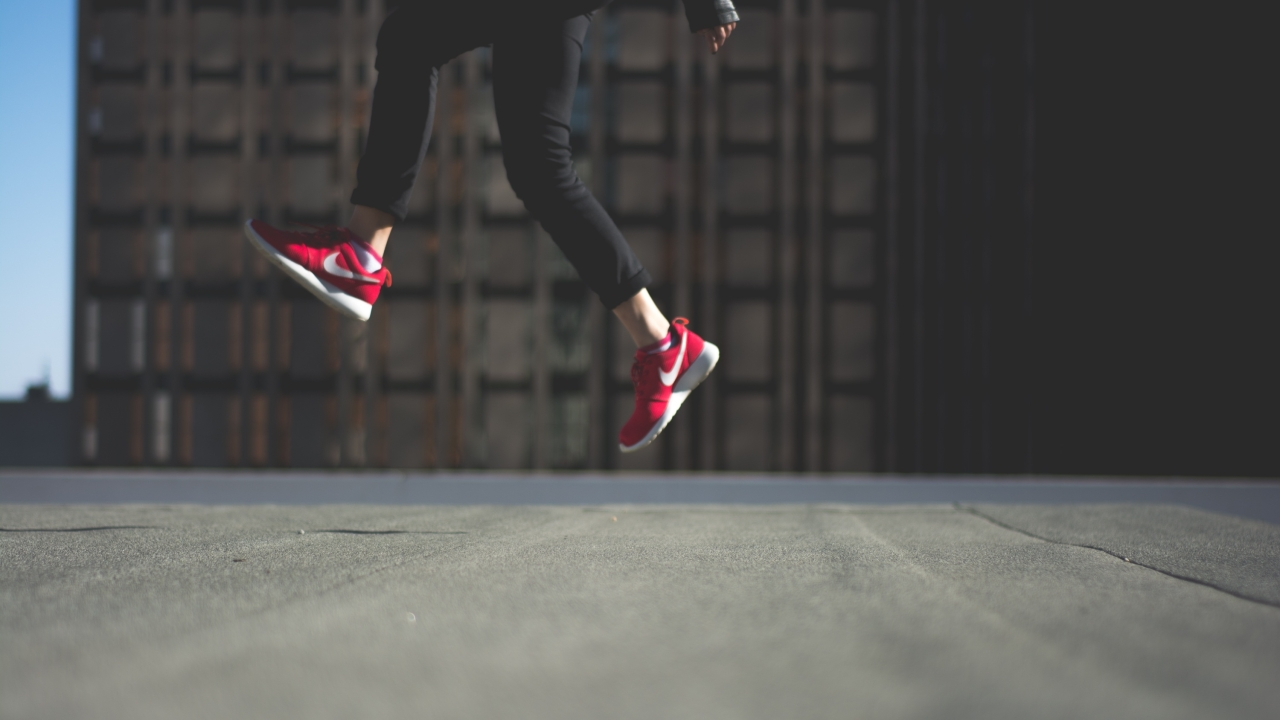
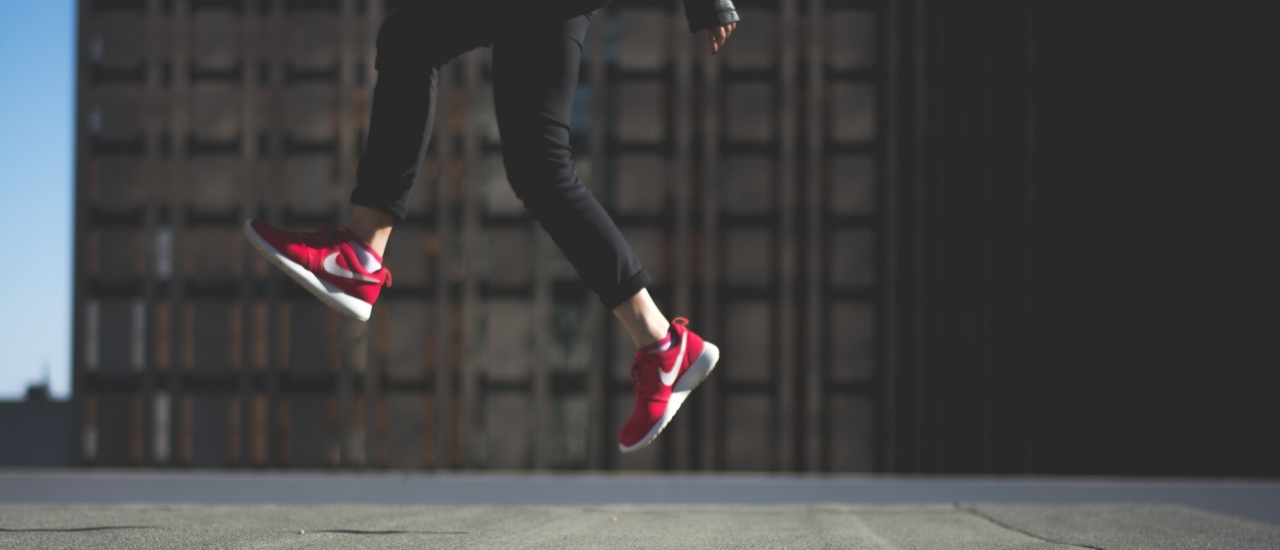
carouselfinish

diff --git a/index.html b/index.html
@@ -2,161 +2,177 @@
 <html lang="en">
 
 <head>
-    <meta charset="UTF-8">
-    <meta http-equiv="X-UA-Compatible" content="IE=edge">
-    <meta name="viewport" content="width=device-width, initial-scale=1.0">
-    <title>Be Greater | SNEAKERS SALE!</title>
-    <link rel="stylesheet" href="./assets/css/style.css">
-    <link rel="stylesheet" href="https://cdnjs.cloudflare.com/ajax/libs/font-awesome/6.2.1/css/all.min.css">
-    <link href="https://cdn.jsdelivr.net/npm/bootstrap@5.2.3/dist/css/bootstrap.min.css" rel="stylesheet"
-        integrity="sha384-rbsA2VBKQhggwzxH7pPCaAqO46MgnOM80zW1RWuH61DGLwZJEdK2Kadq2F9CUG65" crossorigin="anonymous">
+  <meta charset="UTF-8">
+  <meta http-equiv="X-UA-Compatible" content="IE=edge">
+  <meta name="viewport" content="width=device-width, initial-scale=1.0">
+  <title>Be Greater | SNEAKERS SALE!</title>
+  <link rel="stylesheet" href="./assets/css/style.css">
+  <link rel="stylesheet" href="https://cdnjs.cloudflare.com/ajax/libs/font-awesome/6.2.1/css/all.min.css">
+  <link href="https://cdn.jsdelivr.net/npm/bootstrap@5.2.3/dist/css/bootstrap.min.css" rel="stylesheet"
+    integrity="sha384-rbsA2VBKQhggwzxH7pPCaAqO46MgnOM80zW1RWuH61DGLwZJEdK2Kadq2F9CUG65" crossorigin="anonymous">
 
 
 </head>
 
 <body class="bodyIndex">
-    <nav class="navbar navbar-expand-lg navbar-dark " style="background: #4551b5;">
-        <div class="container-fluid">
-          <a class="navbar-brand" href="#"></a>
-          <img src="./assets/img/BeGreater.png" alt="logo" width="autopx" height="100">
-          <button class="navbar-toggler" type="button" data-bs-toggle="collapse" data-bs-target="#navbarSupportedContent"
-            aria-controls="navbarSupportedContent" aria-expanded="false" aria-label="Toggle navigation">
-            <span class="navbar-toggler-icon"></span>
-          </button>
-          <div class="collapse navbar-collapse me-5 justify-content-center" id="navbarSupportedContent">
-            <ul class="navbar-nav">
-              <li class="nav-item">
-                <a class="nav-link active" aria-current="page" href="/index.html">HOME</a>
-              </li>
-              <li class="nav-item">
-                <a class="nav-link" href="./pages/merch.html">MERCH</a>
-              </li>
-              <li class="nav-item">
-                <a class="nav-link" href="./pages/aboutus.html"> ABOUT US</a>
-              </li>
-              <li class="nav-item">
-                <a class="nav-link" href="./pages/contact.html">CONTACT</a>
-              </li>
-              <li class="nav-item">
-                <a class="nav-link" href="./pages/app.html">APP</a>
-              </li>
-            </ul>
-          </div>
-        </div>
-      </nav>
-    <header >
-        <div class="separacion">
-    
-        </div>
-        <div id="carouselExample" class="carousel slide">
-            <div class="carousel-inner ">
-              <div class="carousel-item active ">
-                <img src="./assets/img/nike1.png" class="d-block w-100" alt="...">
-              </div>
-              <div class="carousel-item">
-                <img src="./assets/img/nike2.jpg" class="d-block w-100" alt="...">
-              </div>
-              <div class="carousel-item">
-                <img src="./assets/img/nike3.jpg" class="d-block w-100" alt="...">
-              </div>
-            </div>
-            <button class="carousel-control-prev" type="button" data-bs-target="#carouselExample" data-bs-slide="prev">
-              <span class="carousel-control-prev-icon" aria-hidden="true"></span>
-              <span class="visually-hidden">Previous</span>
+  <nav class="navbar navbar-expand-lg navbar-dark " style="background: #4551b5;">
+    <div class="container-fluid">
+      <a class="navbar-brand" href="#"></a>
+      <img src="./assets/img/BeGreater.png" alt="logo" width="autopx" height="100">
+      <button class="navbar-toggler" type="button" data-bs-toggle="collapse" data-bs-target="#navbarSupportedContent"
+        aria-controls="navbarSupportedContent" aria-expanded="false" aria-label="Toggle navigation">
+        <span class="navbar-toggler-icon"></span>
+      </button>
+      <div class="collapse navbar-collapse me-5 justify-content-end" id="navbarSupportedContent">
+        <ul class="navbar-nav">
+          <li class="nav-item">
+            <a class="nav-link active" aria-current="page" href="/index.html">HOME</a>
+          </li>
+          <li class="nav-item">
+            <a class="nav-link" href="./pages/merch.html">MERCH</a>
+          </li>
+          <li class="nav-item">
+            <a class="nav-link" href="./pages/aboutus.html"> ABOUT US</a>
+          </li>
+          <li class="nav-item">
+            <a class="nav-link" href="./pages/contact.html">CONTACT</a>
+          </li>
+          <li class="nav-item">
+            <a class="nav-link" href="./pages/app.html">APP</a>
+          </li>
+        </ul>
+      </div>
+    </div>
+  </nav>
+  <header>
+    <div class="separacion">
+</div>
+      <section data-aos="fade-up" class="container aos-init aos-animate">
+
+        <section id="carouselExampleCaptions" class="carousel slide " data-bs-ride="carousel">
+          <section class="carousel-indicators">
+            <button type="button" data-bs-target="#carouselExampleCaptions" data-bs-slide-to="0" class=""
+              aria-label="Slide 1">
             </button>
-            <button class="carousel-control-next" type="button" data-bs-target="#carouselExample" data-bs-slide="next">
-              <span class="carousel-control-next-icon" aria-hidden="true"></span>
-              <span class="visually-hidden">Next</span>
+            <button type="button" data-bs-target="#carouselExampleCaptions" data-bs-slide-to="1" aria-label="Slide 2"
+              class="active" aria-current="true">
             </button>
-          </div>
-    </header>
+            <button type="button" data-bs-target="#carouselExampleCaptions" data-bs-slide-to="2" aria-label="Slide 3"
+              class="">
+            </button>
+          </section>
+          <section class="carousel-inner">
+            <section class="carousel-item">
+              <img src="./assets/img/nike1.png" class="d-block w-100 " alt="img0">
+              <section class="carousel-caption d-none d-md-block">
 
-    
+              </section>
+            </section>
+            <section class="carousel-item active">
+              <img src="./assets/img/nike2.jpg" class="d-block w-100" alt="img1">
+              <section class="carousel-caption d-none d-md-block">
 
-    <main>
-        
-        <h1 class="sneakers">SNEAKERS</h1>
-        <section class="tarjetas">
+              </section>
+            </section>
+            <section class="carousel-item">
+              <img src="./assets/img/nike3.jpg" class="d-block w-100" alt="img2">
+              <section class="carousel-caption d-none d-md-block">
+              </section>
+            </section>
 
-            <div class="tarjeta">
-
-                <img src="./assets/img/Nike Air More Uptempo '96.jpg"
-                    alt="" class="zapas">
-                <div class="textos">
-                    <h3 class="titulotarjeta">Nike Air More Uptempo '96</h3>
-                    <p>
-                        The Nike Air More Uptempo '96 would give you a legendary look. From the large A-I-R design on each side, inspired by '90s graffiti; to the Air unit on the sole of the foot, which cushions with each step.
-                    </p>
-                    <button class="btnHome"> BUY NOW</button>
-                </div>
-
-
-            </div>
-
-            <div class="tarjeta">
-
-                <img src="./assets/img/Nike Dunk Hi Retro.jpg"
-                    alt="" class="zapas">
-                <div class="textos">
-                    <h3 class="titulotarjeta">Nike Dunk Hi Retro</h3>
-                    <p>
-                        The Nike Dunk Hi Retro Shoe was introduced as a basketball shoe in 1985, though its grippy flat sole was perfect for a forgotten sporting community: skateboarders.
-                    </p>
-                    <button class="btnHome"> BUY NOW</button>
-                </div>
-
-
-            </div>
-
-            <div class="tarjeta">
-
-                <img src="./assets/img/Nike Air Force 1 High 07 Lv8.jpg"
-                    alt="" class="zapas">
-                <div class="textos">
-                    <h3 class="titulotarjeta">Nike Air Force 1 High 07 Lv8</h3>
-                    <p>Like a basketball icon that moves to the streets and the city, the Nike Air Force 1 High 07 Lv8 Shoes have arrived to complete your look with a lot of style and sophistication.
-                    </p>
-                    <button class="btnHome"> BUY NOW</button>
-                </div>
-
-
+          </section>
         </section>
-    </main>
+      </section>
+
+      </section>
+  </header>
 
 
-    <footer class="pie-pagina">
-        <div class="grupo-1">
-            <div class="box">
-                <figure class="logo">
-                    <a href="./index.html">
-                        <img src="./assets/img/BeGreater.png" alt="BeGreater">
-                    </a>
-                </figure>
-            </div>
-            <div class="box">
-                <h2>About Us</h2>
-                <p>
-                    We live training to win and conquer consumers by offering a premium experience.</p>
-                <p>
-                    You need to have courage to wear our clothes, are you ready to Be Greater?</p>
-            </div>
-            <div class="box">
-                <h2>FOLLOW US</h2>
-                <div class="red-social">
-                    <a href="#" class="fa-brands fa-facebook"></a>
-                    <a href="#" class="fa-brands fa-twitter"></a>
-                    <a href="#" class="fa-brands fa-instagram"></a>
-                    <a href="#" class="fa-brands fa-youtube"></a>
-                </div>
-            </div>
+
+  <main>
+
+    <h1 class="sneakers">SNEAKERS</h1>
+    <section class="tarjetas">
+
+      <div class="tarjeta">
+
+        <img src="./assets/img/Nike Air More Uptempo '96.jpg" alt="" class="zapas">
+        <div class="textos">
+          <h3 class="titulotarjeta">Nike Air More Uptempo '96</h3>
+          <p>
+            The Nike Air More Uptempo '96 would give you a legendary look. From the large A-I-R design on each side,
+            inspired by '90s graffiti; to the Air unit on the sole of the foot, which cushions with each step.
+          </p>
+          <button class="btnHome"> BUY NOW</button>
         </div>
-        <div class="grupo-2">
-            <small>&copy; 2021 <b>BeGreater, Inc</b> - All Rights Reserved.</small>
+
+
+      </div>
+
+      <div class="tarjeta">
+
+        <img src="./assets/img/Nike Dunk Hi Retro.jpg" alt="" class="zapas">
+        <div class="textos">
+          <h3 class="titulotarjeta">Nike Dunk Hi Retro</h3>
+          <p>
+            The Nike Dunk Hi Retro Shoe was introduced as a basketball shoe in 1985, though its grippy flat sole was
+            perfect for a forgotten sporting community: skateboarders.
+          </p>
+          <button class="btnHome"> BUY NOW</button>
         </div>
-    </footer>
-    <script src="https://cdn.jsdelivr.net/npm/bootstrap@5.2.3/dist/js/bootstrap.bundle.min.js"
-        integrity="sha384-kenU1KFdBIe4zVF0s0G1M5b4hcpxyD9F7jL+jjXkk+Q2h455rYXK/7HAuoJl+0I4"
-        crossorigin="anonymous"></script>
+
+
+      </div>
+
+      <div class="tarjeta">
+
+        <img src="./assets/img/Nike Air Force 1 High 07 Lv8.jpg" alt="" class="zapas">
+        <div class="textos">
+          <h3 class="titulotarjeta">Nike Air Force 1 High 07 Lv8</h3>
+          <p>Like a basketball icon that moves to the streets and the city, the Nike Air Force 1 High 07 Lv8 Shoes have
+            arrived to complete your look with a lot of style and sophistication.
+          </p>
+          <button class="btnHome"> BUY NOW</button>
+        </div>
+
+
+    </section>
+  </main>
+
+
+  <footer class="pie-pagina">
+    <div class="grupo-1">
+      <div class="box">
+        <figure class="logo">
+          <a href="./index.html">
+            <img src="./assets/img/BeGreater.png" alt="BeGreater">
+          </a>
+        </figure>
+      </div>
+      <div class="box">
+        <h2>About Us</h2>
+        <p>
+          We live training to win and conquer consumers by offering a premium experience.</p>
+        <p>
+          You need to have courage to wear our clothes, are you ready to Be Greater?</p>
+      </div>
+      <div class="box">
+        <h2>FOLLOW US</h2>
+        <div class="red-social">
+          <a href="#" class="fa-brands fa-facebook"></a>
+          <a href="#" class="fa-brands fa-twitter"></a>
+          <a href="#" class="fa-brands fa-instagram"></a>
+          <a href="#" class="fa-brands fa-youtube"></a>
+        </div>
+      </div>
+    </div>
+    <div class="grupo-2">
+      <small>&copy; 2021 <b>BeGreater, Inc</b> - All Rights Reserved.</small>
+    </div>
+  </footer>
+  <script src="https://cdn.jsdelivr.net/npm/bootstrap@5.2.3/dist/js/bootstrap.bundle.min.js"
+    integrity="sha384-kenU1KFdBIe4zVF0s0G1M5b4hcpxyD9F7jL+jjXkk+Q2h455rYXK/7HAuoJl+0I4"
+    crossorigin="anonymous"></script>
 </body>
 
 </html>

diff --git a/pages/app.html b/pages/app.html
@@ -24,9 +24,9 @@
                 aria-label="Toggle navigation">
                 <span class="navbar-toggler-icon"></span>
             </button>
-            <div class="collapse navbar-collapse" id="navbarSupportedContent">
-                <ul class="navbar-nav me-auto mb-2 mb-lg-0">
-                    <li class="nav-item">
+            <div class="collapse navbar-collapse me-5 justify-content-end" id="navbarSupportedContent">
+                <ul class="navbar-nav">
+                  <li class="nav-item">
                         <a class="nav-link active" aria-current="page" href="../index.html">HOME</a>
                     </li>
                     <li class="nav-item">

diff --git a/pages/contact.html b/pages/contact.html
@@ -24,9 +24,9 @@
                 aria-label="Toggle navigation">
                 <span class="navbar-toggler-icon"></span>
             </button>
-            <div class="collapse navbar-collapse" id="navbarSupportedContent">
-                <ul class="navbar-nav me-auto mb-2 mb-lg-0">
-                    <li class="nav-item">
+            <div class="collapse navbar-collapse me-5 justify-content-end" id="navbarSupportedContent">
+                <ul class="navbar-nav">
+                  <li class="nav-item">
                         <a class="nav-link active" aria-current="page" href="../index.html">HOME</a>
                     </li>
                     <li class="nav-item">

diff --git a/pages/merch.html b/pages/merch.html
@@ -24,9 +24,9 @@
                 aria-label="Toggle navigation">
                 <span class="navbar-toggler-icon"></span>
             </button>
-            <div class="collapse navbar-collapse" id="navbarSupportedContent">
-                <ul class="navbar-nav me-auto mb-2 mb-lg-0">
-                    <li class="nav-item">
+            <div class="collapse navbar-collapse me-5 justify-content-end" id="navbarSupportedContent">
+                <ul class="navbar-nav">
+                  <li class="nav-item">
                         <a class="nav-link active" aria-current="page" href="../index.html">HOME</a>
                     </li>
                     <li class="nav-item">

diff --git a/pages/aboutus.html b/pages/aboutus.html
@@ -23,8 +23,8 @@
         aria-controls="navbarSupportedContent" aria-expanded="false" aria-label="Toggle navigation">
         <span class="navbar-toggler-icon"></span>
       </button>
-      <div class="collapse navbar-collapse" id="navbarSupportedContent">
-        <ul class="navbar-nav me-auto mb-2 mb-lg-0">
+      <div class="collapse navbar-collapse me-5 justify-content-end" id="navbarSupportedContent">
+        <ul class="navbar-nav">
           <li class="nav-item">
             <a class="nav-link active" aria-current="page" href="../index.html">HOME</a>
           </li>

diff --git a/assets/css/style.css b/assets/css/style.css
@@ -156,10 +156,6 @@ nav {
   transform: scale(1.2);
 }
 
-.slide img {
-  height: 65vh;
-}
-
 /**************************** INDEX FIN ****************************/
 /***************************** MERCH ****************************/
 .bodyMerch {

diff --git a/src/scss/_bodyIndex.scss b/src/scss/_bodyIndex.scss
@@ -88,8 +88,5 @@
     }
   }
 
-  .slide{ img{
-    height: 65vh;
-  }
-}
+
   /**************************** INDEX FIN ****************************/
